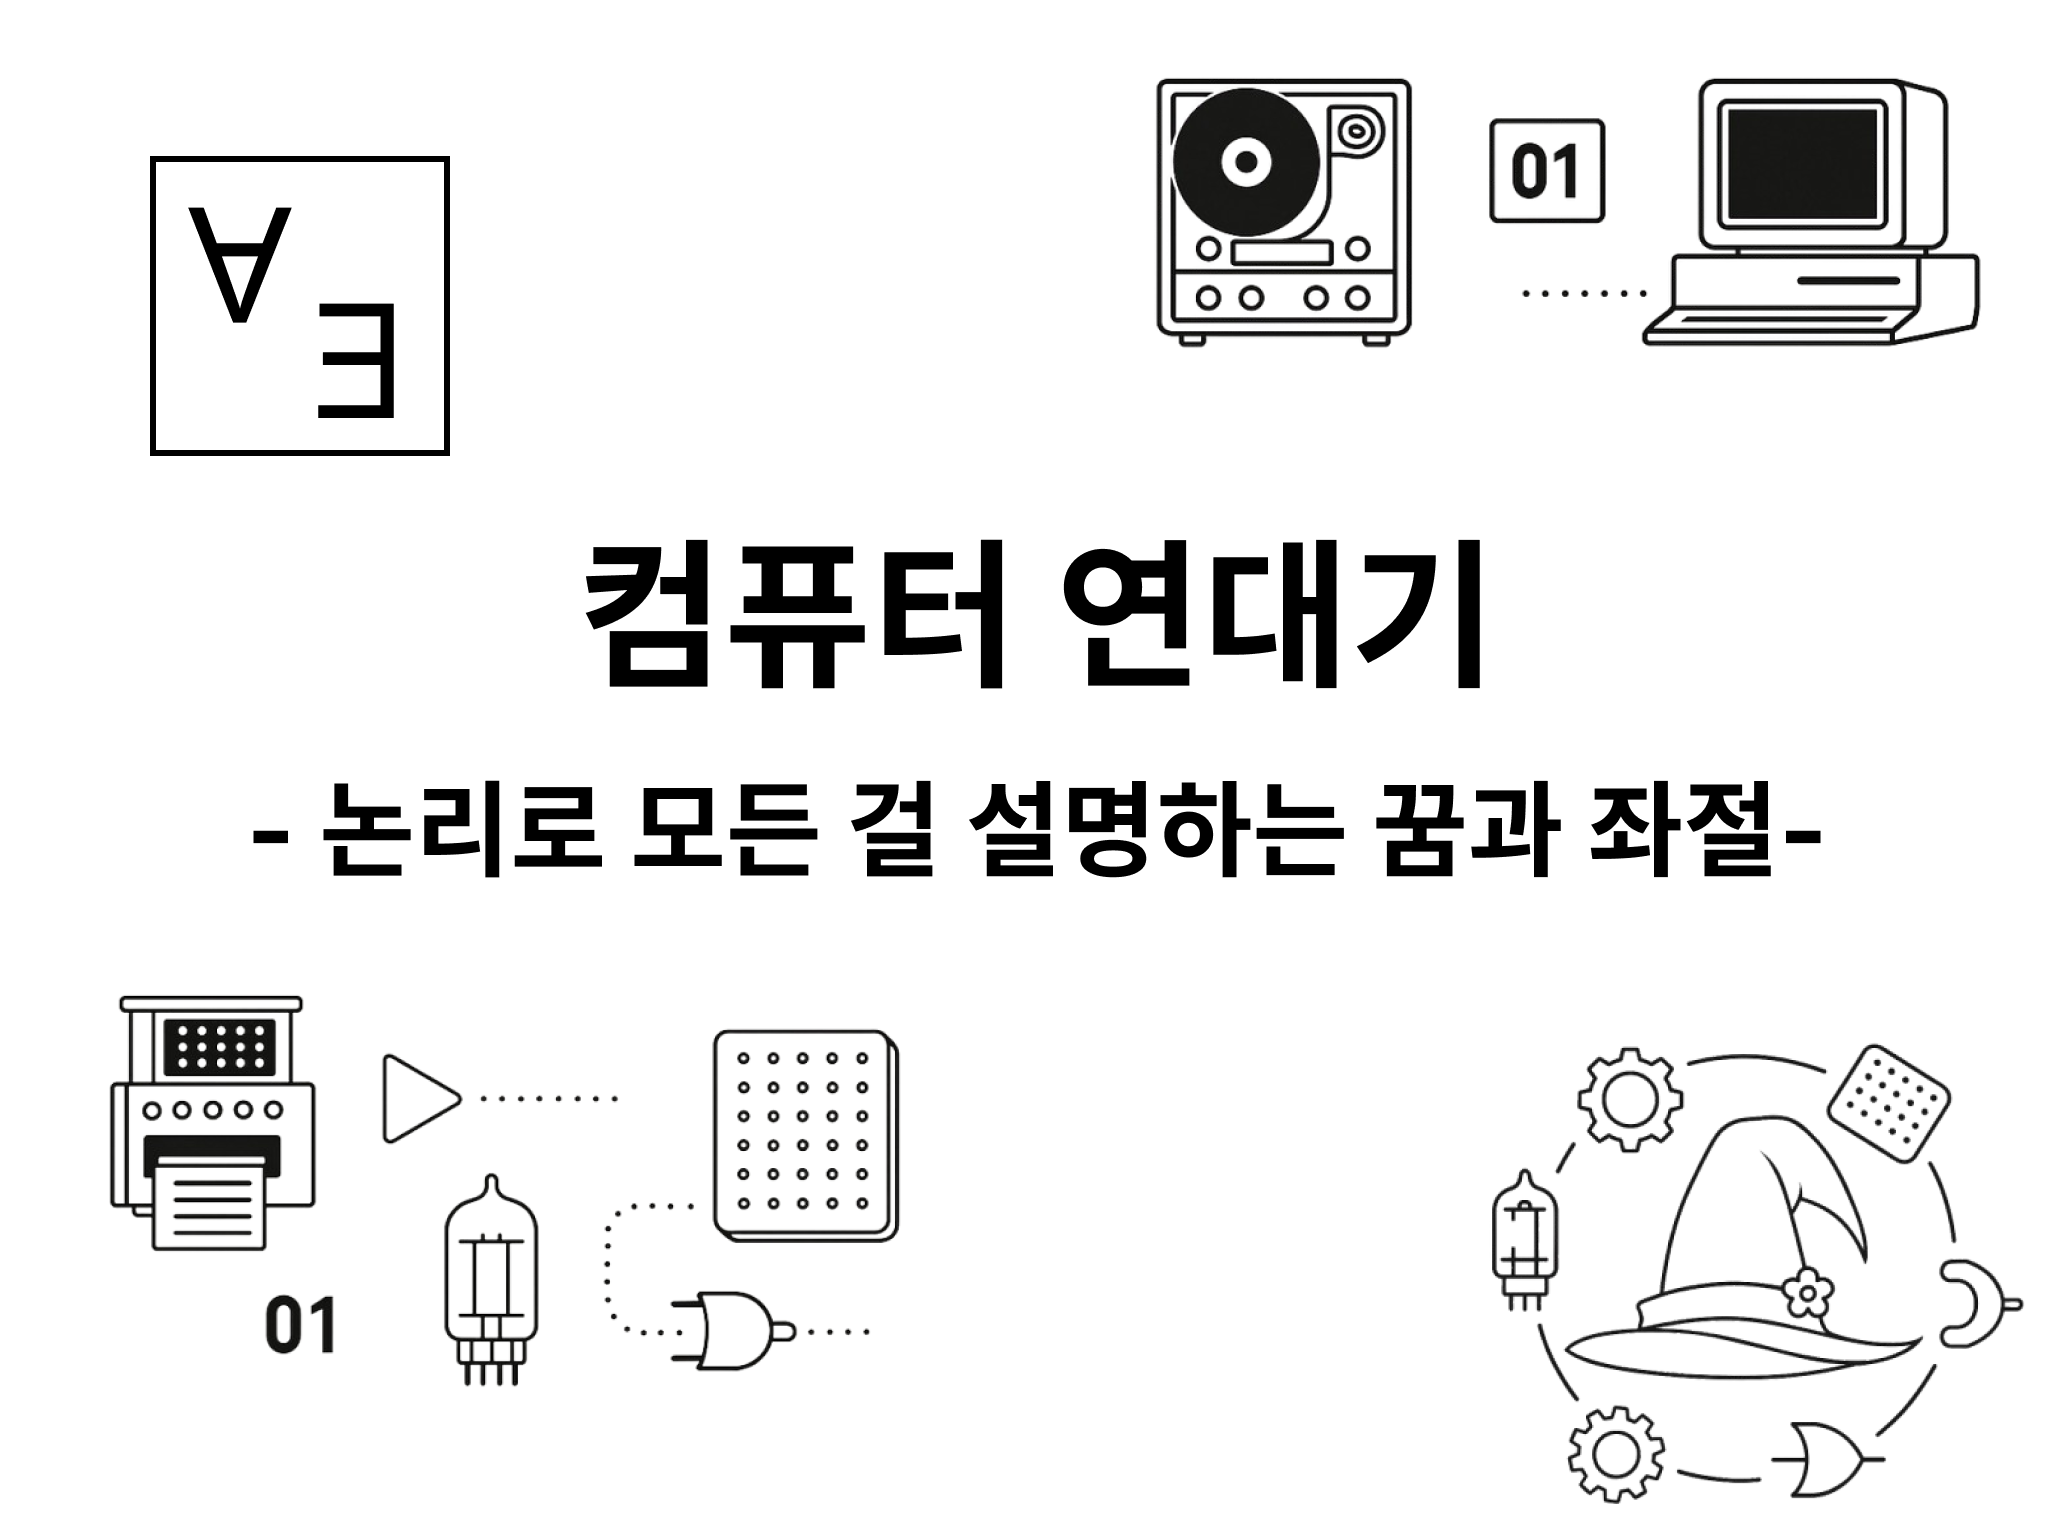
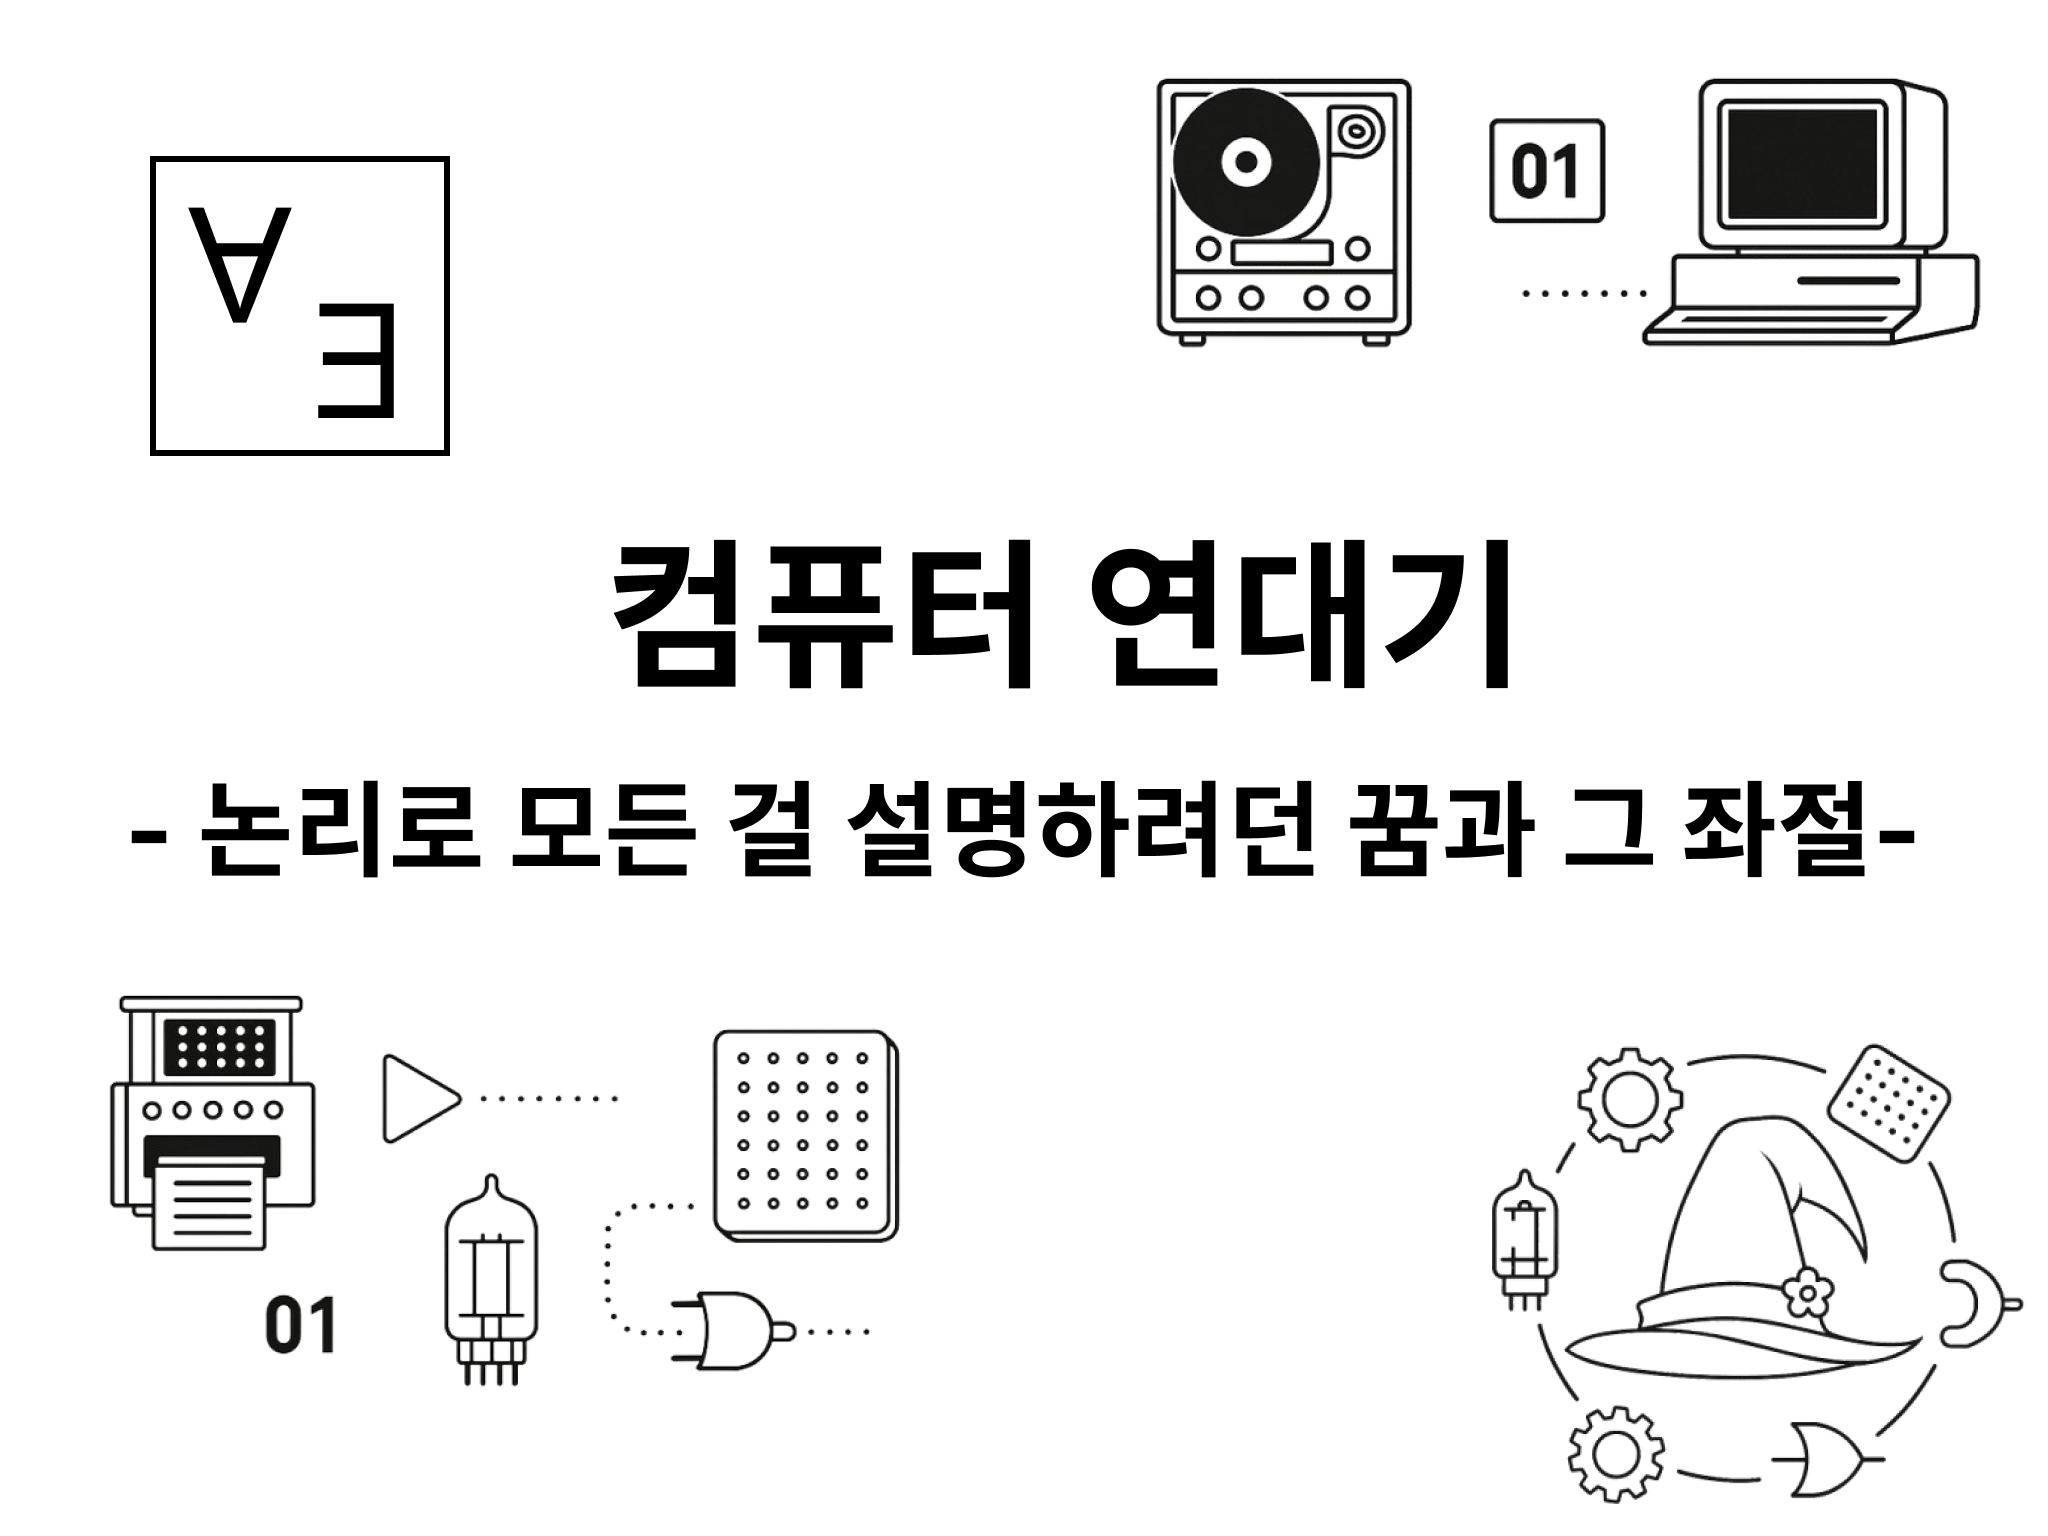
2번째 글 제출용 완성

Changed region(s): [[0.0625, 0.5, 0.9375, 0.5938], [0.2812, 0.3438, 0.75, 0.4688]]

diff --git a/content/posts/computer-history-from-scratch-1/index.md b/content/posts/computer-history-from-scratch-1/index.md
@@ -15,6 +15,7 @@ tags: ["history", "computer"]
 | --- | --- |
 | 컴퓨터 연대기 0. 서문 | [링크](/ko/posts/computer-history-from-scratch-0) |
 | 컴퓨터 연대기 1. 생각하는 기계를 향한 첫걸음, 추론의 기초를 세운 사람들 | [링크](/ko/posts/computer-history-from-scratch-1) |
+| 컴퓨터 연대기 2. 논리로 세상을 완벽하게 설명하려던 꿈과 그 좌절 | [링크](/ko/posts/computer-history-from-scratch-2) |
 
 * 조사를 위해 노력했지만, 혹시 틀린 부분이 있다면 댓글 등을 통한 지적을 환영합니다.
 

diff --git a/content/posts/computer-history-from-scratch-0/index.md b/content/posts/computer-history-from-scratch-0/index.md
@@ -15,6 +15,7 @@ tags: ["history", "computer"]
 | --- | --- |
 | 컴퓨터 연대기 0. 서문 | [링크](/ko/posts/computer-history-from-scratch-0) |
 | 컴퓨터 연대기 1. 생각하는 기계를 향한 첫걸음, 추론의 기초를 세운 사람들 | [링크](/ko/posts/computer-history-from-scratch-1) |
+| 컴퓨터 연대기 2. 논리로 세상을 완벽하게 설명하려던 꿈과 그 좌절 | [링크](/ko/posts/computer-history-from-scratch-2) |
 
 # 서문
 
